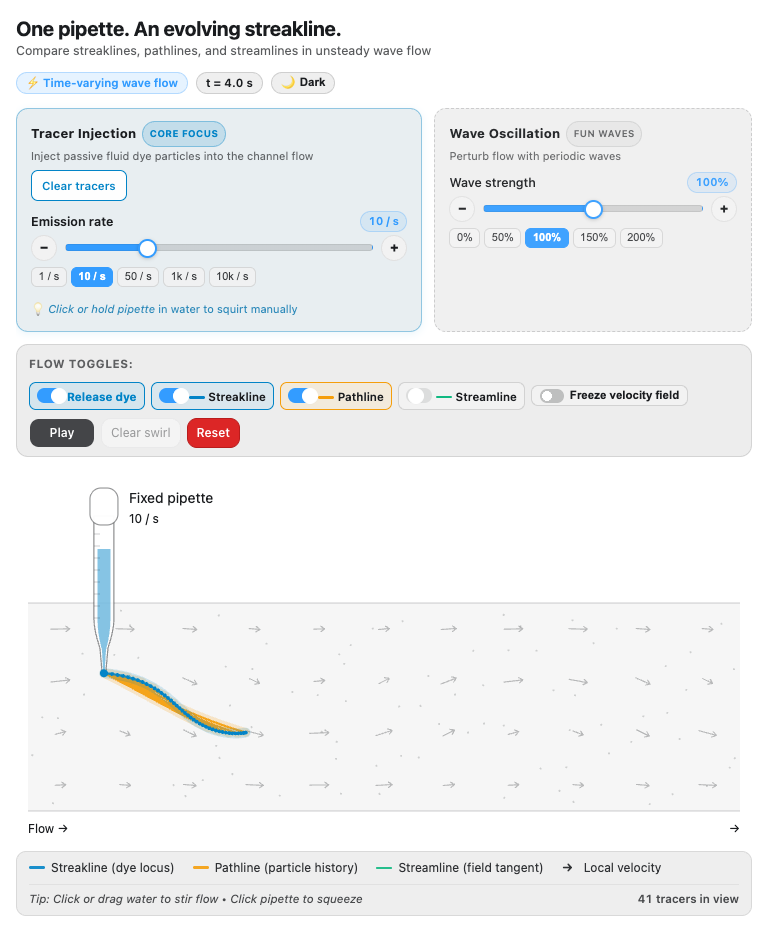
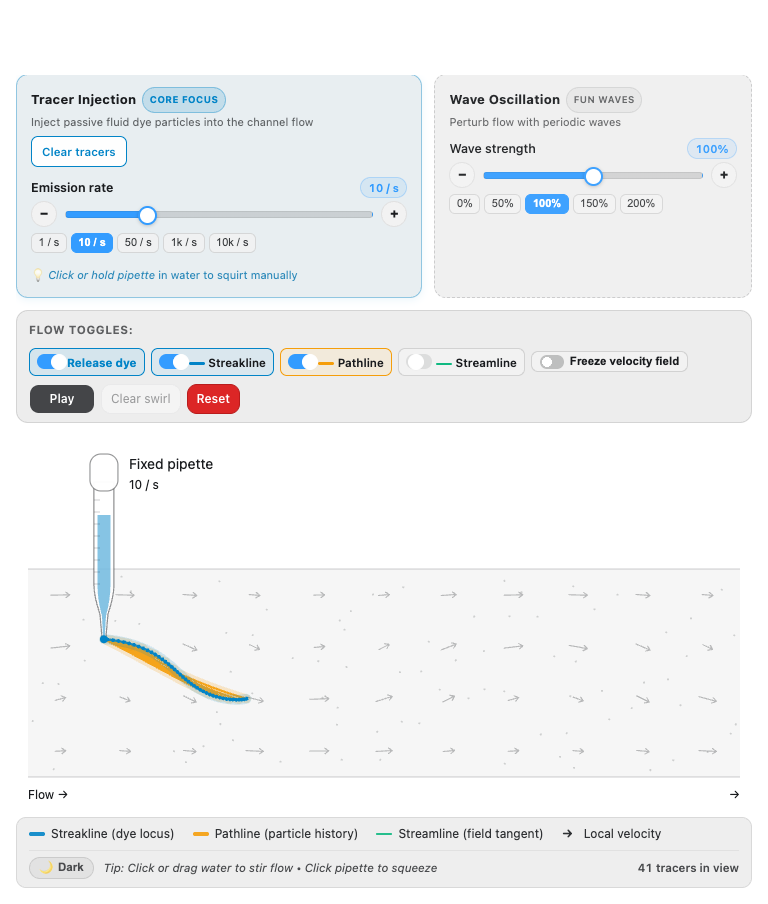
Move dark mode toggle to bottom left in footer meta

diff --git a/dist/index.html b/dist/index.html
@@ -1335,10 +1335,6 @@ html&gt;body{padding:0}&lt;/style&gt;
     &lt;div class=&quot;sl-status-badges&quot;&gt;
       &lt;span class=&quot;sl-regime-pill&quot; id=&quot;sl-regime-indicator&quot;&gt;⚡ Time-varying wave flow&lt;/span&gt;
       &lt;span class=&quot;text-small tabular-nums sl-time-pill&quot; id=&quot;sl-time&quot;&gt;t = 0.0 s&lt;/span&gt;
-      &lt;button type=&quot;button&quot; class=&quot;sl-theme-btn&quot; id=&quot;sl-theme-toggle&quot; aria-label=&quot;Toggle dark mode&quot; title=&quot;Toggle dark mode&quot;&gt;
-        &lt;span class=&quot;sl-theme-icon&quot; aria-hidden=&quot;true&quot;&gt;🌙&lt;/span&gt;
-        &lt;span class=&quot;sl-theme-text&quot; id=&quot;sl-theme-text&quot;&gt;Dark&lt;/span&gt;
-      &lt;/button&gt;
     &lt;/div&gt;
   &lt;/div&gt;
 
@@ -1507,7 +1503,13 @@ html&gt;body{padding:0}&lt;/style&gt;
       &lt;span id=&quot;sl-vortex-legend&quot; class=&quot;sl-legend-item&quot; style=&quot;display:none;&quot;&gt;&lt;span class=&quot;sl-vortex-dot&quot; aria-hidden=&quot;true&quot;&gt;&lt;/span&gt;Swirl vortex&lt;/span&gt;
     &lt;/div&gt;
     &lt;div class=&quot;sl-footer-meta&quot;&gt;
-      &lt;span class=&quot;sl-tip-meta&quot;&gt;Tip: Click or drag water to stir flow &amp;bull; Click pipette to squeeze&lt;/span&gt;
+      &lt;div class=&quot;sl-footer-left&quot;&gt;
+        &lt;button type=&quot;button&quot; class=&quot;sl-theme-btn&quot; id=&quot;sl-theme-toggle&quot; aria-label=&quot;Toggle dark mode&quot; title=&quot;Toggle dark mode&quot;&gt;
+          &lt;span class=&quot;sl-theme-icon&quot; aria-hidden=&quot;true&quot;&gt;🌙&lt;/span&gt;
+          &lt;span class=&quot;sl-theme-text&quot; id=&quot;sl-theme-text&quot;&gt;Dark&lt;/span&gt;
+        &lt;/button&gt;
+        &lt;span class=&quot;sl-tip-meta&quot;&gt;Tip: Click or drag water to stir flow &amp;bull; Click pipette to squeeze&lt;/span&gt;
+      &lt;/div&gt;
       &lt;span class=&quot;tabular-nums sl-count-badge&quot; id=&quot;sl-count&quot;&gt;0 tracers in view&lt;/span&gt;
     &lt;/div&gt;
   &lt;/div&gt;
@@ -2213,6 +2215,12 @@ html&gt;body{padding:0}&lt;/style&gt;
     border-top: 1px solid color-mix(in srgb, var(--foreground) 8%, transparent);
     padding-top: 6px;
   }
+  #streakline-lab .sl-footer-left {
+    display: flex;
+    align-items: center;
+    gap: 10px;
+    flex-wrap: wrap;
+  }
   #streakline-lab .sl-tip-meta {
     font-style: italic;
   }
@@ -2884,6 +2892,7 @@ html&gt;body{padding:0}&lt;/style&gt;
   layout(); requestAnimationFrame(animate);
 })();
 &lt;/script&gt;
+
 
 
 

diff --git a/outputs/streakline-demo.html b/outputs/streakline-demo.html
@@ -1335,10 +1335,6 @@ html&gt;body{padding:0}&lt;/style&gt;
     &lt;div class=&quot;sl-status-badges&quot;&gt;
       &lt;span class=&quot;sl-regime-pill&quot; id=&quot;sl-regime-indicator&quot;&gt;⚡ Time-varying wave flow&lt;/span&gt;
       &lt;span class=&quot;text-small tabular-nums sl-time-pill&quot; id=&quot;sl-time&quot;&gt;t = 0.0 s&lt;/span&gt;
-      &lt;button type=&quot;button&quot; class=&quot;sl-theme-btn&quot; id=&quot;sl-theme-toggle&quot; aria-label=&quot;Toggle dark mode&quot; title=&quot;Toggle dark mode&quot;&gt;
-        &lt;span class=&quot;sl-theme-icon&quot; aria-hidden=&quot;true&quot;&gt;🌙&lt;/span&gt;
-        &lt;span class=&quot;sl-theme-text&quot; id=&quot;sl-theme-text&quot;&gt;Dark&lt;/span&gt;
-      &lt;/button&gt;
     &lt;/div&gt;
   &lt;/div&gt;
 
@@ -1507,7 +1503,13 @@ html&gt;body{padding:0}&lt;/style&gt;
       &lt;span id=&quot;sl-vortex-legend&quot; class=&quot;sl-legend-item&quot; style=&quot;display:none;&quot;&gt;&lt;span class=&quot;sl-vortex-dot&quot; aria-hidden=&quot;true&quot;&gt;&lt;/span&gt;Swirl vortex&lt;/span&gt;
     &lt;/div&gt;
     &lt;div class=&quot;sl-footer-meta&quot;&gt;
-      &lt;span class=&quot;sl-tip-meta&quot;&gt;Tip: Click or drag water to stir flow &amp;bull; Click pipette to squeeze&lt;/span&gt;
+      &lt;div class=&quot;sl-footer-left&quot;&gt;
+        &lt;button type=&quot;button&quot; class=&quot;sl-theme-btn&quot; id=&quot;sl-theme-toggle&quot; aria-label=&quot;Toggle dark mode&quot; title=&quot;Toggle dark mode&quot;&gt;
+          &lt;span class=&quot;sl-theme-icon&quot; aria-hidden=&quot;true&quot;&gt;🌙&lt;/span&gt;
+          &lt;span class=&quot;sl-theme-text&quot; id=&quot;sl-theme-text&quot;&gt;Dark&lt;/span&gt;
+        &lt;/button&gt;
+        &lt;span class=&quot;sl-tip-meta&quot;&gt;Tip: Click or drag water to stir flow &amp;bull; Click pipette to squeeze&lt;/span&gt;
+      &lt;/div&gt;
       &lt;span class=&quot;tabular-nums sl-count-badge&quot; id=&quot;sl-count&quot;&gt;0 tracers in view&lt;/span&gt;
     &lt;/div&gt;
   &lt;/div&gt;
@@ -2213,6 +2215,12 @@ html&gt;body{padding:0}&lt;/style&gt;
     border-top: 1px solid color-mix(in srgb, var(--foreground) 8%, transparent);
     padding-top: 6px;
   }
+  #streakline-lab .sl-footer-left {
+    display: flex;
+    align-items: center;
+    gap: 10px;
+    flex-wrap: wrap;
+  }
   #streakline-lab .sl-tip-meta {
     font-style: italic;
   }
@@ -2884,6 +2892,7 @@ html&gt;body{padding:0}&lt;/style&gt;
   layout(); requestAnimationFrame(animate);
 })();
 &lt;/script&gt;
+
 
 
 

diff --git a/work/streakline-preview.html b/work/streakline-preview.html
@@ -1335,10 +1335,6 @@ html&gt;body{padding:0}&lt;/style&gt;
     &lt;div class=&quot;sl-status-badges&quot;&gt;
       &lt;span class=&quot;sl-regime-pill&quot; id=&quot;sl-regime-indicator&quot;&gt;⚡ Time-varying wave flow&lt;/span&gt;
       &lt;span class=&quot;text-small tabular-nums sl-time-pill&quot; id=&quot;sl-time&quot;&gt;t = 0.0 s&lt;/span&gt;
-      &lt;button type=&quot;button&quot; class=&quot;sl-theme-btn&quot; id=&quot;sl-theme-toggle&quot; aria-label=&quot;Toggle dark mode&quot; title=&quot;Toggle dark mode&quot;&gt;
-        &lt;span class=&quot;sl-theme-icon&quot; aria-hidden=&quot;true&quot;&gt;🌙&lt;/span&gt;
-        &lt;span class=&quot;sl-theme-text&quot; id=&quot;sl-theme-text&quot;&gt;Dark&lt;/span&gt;
-      &lt;/button&gt;
     &lt;/div&gt;
   &lt;/div&gt;
 
@@ -1507,7 +1503,13 @@ html&gt;body{padding:0}&lt;/style&gt;
       &lt;span id=&quot;sl-vortex-legend&quot; class=&quot;sl-legend-item&quot; style=&quot;display:none;&quot;&gt;&lt;span class=&quot;sl-vortex-dot&quot; aria-hidden=&quot;true&quot;&gt;&lt;/span&gt;Swirl vortex&lt;/span&gt;
     &lt;/div&gt;
     &lt;div class=&quot;sl-footer-meta&quot;&gt;
-      &lt;span class=&quot;sl-tip-meta&quot;&gt;Tip: Click or drag water to stir flow &amp;bull; Click pipette to squeeze&lt;/span&gt;
+      &lt;div class=&quot;sl-footer-left&quot;&gt;
+        &lt;button type=&quot;button&quot; class=&quot;sl-theme-btn&quot; id=&quot;sl-theme-toggle&quot; aria-label=&quot;Toggle dark mode&quot; title=&quot;Toggle dark mode&quot;&gt;
+          &lt;span class=&quot;sl-theme-icon&quot; aria-hidden=&quot;true&quot;&gt;🌙&lt;/span&gt;
+          &lt;span class=&quot;sl-theme-text&quot; id=&quot;sl-theme-text&quot;&gt;Dark&lt;/span&gt;
+        &lt;/button&gt;
+        &lt;span class=&quot;sl-tip-meta&quot;&gt;Tip: Click or drag water to stir flow &amp;bull; Click pipette to squeeze&lt;/span&gt;
+      &lt;/div&gt;
       &lt;span class=&quot;tabular-nums sl-count-badge&quot; id=&quot;sl-count&quot;&gt;0 tracers in view&lt;/span&gt;
     &lt;/div&gt;
   &lt;/div&gt;
@@ -2213,6 +2215,12 @@ html&gt;body{padding:0}&lt;/style&gt;
     border-top: 1px solid color-mix(in srgb, var(--foreground) 8%, transparent);
     padding-top: 6px;
   }
+  #streakline-lab .sl-footer-left {
+    display: flex;
+    align-items: center;
+    gap: 10px;
+    flex-wrap: wrap;
+  }
   #streakline-lab .sl-tip-meta {
     font-style: italic;
   }
@@ -2884,6 +2892,7 @@ html&gt;body{padding:0}&lt;/style&gt;
   layout(); requestAnimationFrame(animate);
 })();
 &lt;/script&gt;
+
 
 
 
